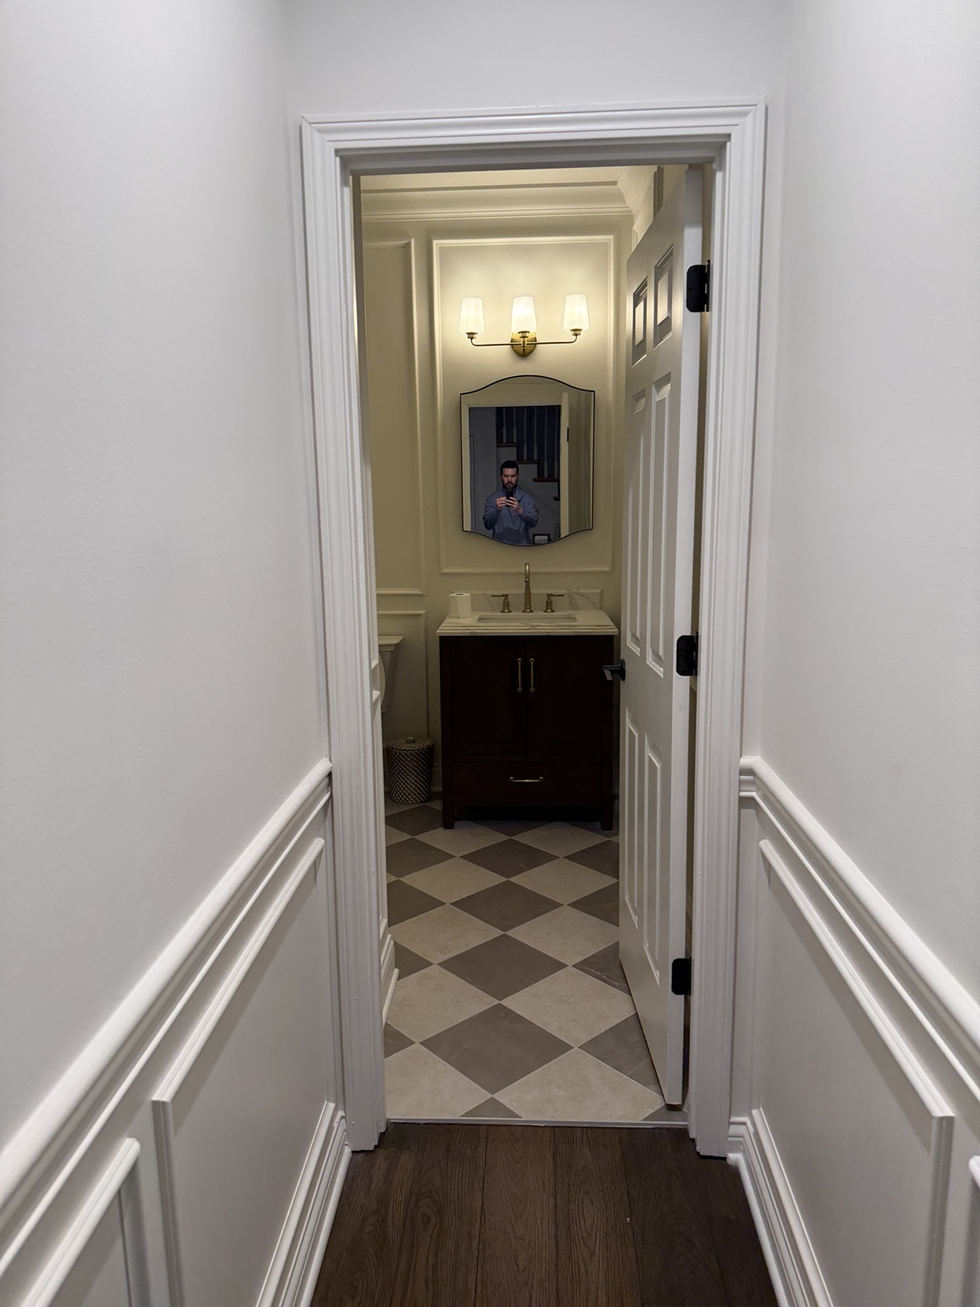
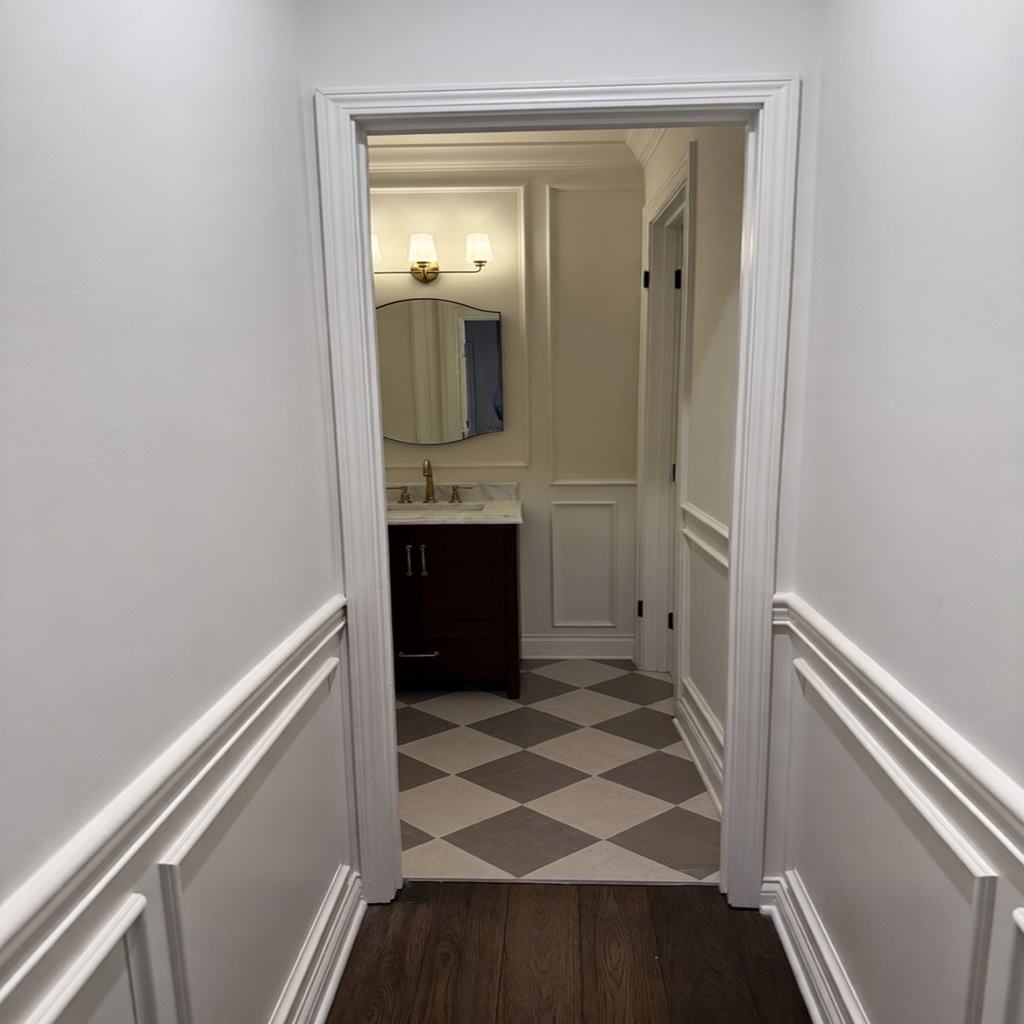
Remove photographer reflections from 3 mirror images

diff --git a/CONSULTING-PLAYBOOK.md b/CONSULTING-PLAYBOOK.md
@@ -1,0 +1,223 @@
+# Independence Carpentry — Growth & Consulting Playbook
+## Prepared by UTXOMacro | November 2026
+
+---
+
+## Part 1: 15 Executable Growth Opportunities for IC
+
+### TIER 1 — Foundation (Week 1-2, Highest ROI)
+
+**1. Google Business Profile — Setup & Optimization**
+- Create and verify Mike's GBP as a service-area business (hide address, list counties served)
+- Add all 6 service categories, business hours, phone, website link
+- Upload all project photos with keyword-rich descriptions
+- Set up messaging so leads can text directly from Google
+- **Why it matters:** GBP drives ~70% of local service discovery. Mike is invisible right now. This alone could generate his first inbound leads within 2 weeks.
+- **Automation potential:** AI agent monitors and responds to GBP questions, updates hours/photos on schedule
+
+**2. Google Reviews Engine**
+- Build an automated post-project review request flow: Mike finishes a job → system texts the homeowner a direct Google review link 3 days later, follows up at 7 days if no review
+- Seed with 3-5 initial reviews (Lance, any past clients Mike can reach)
+- **Why it matters:** Businesses with 10+ reviews at 4.5+ stars rank dramatically higher in local search. Zero reviews = zero trust signal.
+- **Automation potential:** Fully automated via SMS drip. Mike just marks a job "complete" and the system handles the rest.
+
+**3. Local Directory Citations (NAP Consistency)**
+- Submit Independence Carpentry to the top 15 local directories: Yelp, Angi, HomeAdvisor, Houzz, Thumbtack, BBB, Nextdoor, Manta, Yellow Pages, ChamberOfCommerce.com, Foursquare, Apple Maps, Bing Places, MapQuest, Facebook
+- Ensure Name, Address, Phone (NAP) is identical everywhere
+- **Why it matters:** Consistent citations across directories are a core local SEO ranking factor. Google cross-references these to validate legitimacy.
+- **Automation potential:** AI agent can draft all submissions, monitor for inconsistencies quarterly
+
+**4. Facebook Business Page**
+- Mike mentioned he started one. We professionalize it: branded cover photo, service list, contact info, website link, project photo albums
+- Cross-link GBP ↔ Facebook ↔ Website
+- **Why it matters:** Many homeowners still check Facebook before hiring. It's also a free advertising platform via Marketplace and local groups.
+- **Automation potential:** AI-generated posts from project photos. Mike takes a photo → system creates a branded before/after post draft → Mike approves → auto-publishes
+
+---
+
+### TIER 2 — Lead Generation (Week 2-4)
+
+**5. Google Local Services Ads (LSA)**
+- Enroll Mike in Google's LSA program (the "Google Guaranteed" badge)
+- Pay-per-lead model: Mike only pays when someone actually contacts him (~$15-30/lead for home services)
+- Requires background check + license verification
+- **Why it matters:** LSAs appear ABOVE regular Google Ads and organic results. For a carpenter with no web history, this is the fastest path to paid leads.
+- **Automation potential:** AI monitors lead quality, auto-responds to inquiries, flags high-value leads
+
+**6. Automated Lead Response System**
+- When someone submits the website contact form or texts Mike's number: instant auto-reply within 60 seconds acknowledging the inquiry, asking about project type, and confirming Mike will follow up
+- **Why it matters:** 78% of customers hire the first business that responds. Mike is on job sites all day — he can't answer every call. A 60-second auto-response holds the lead until he's available.
+- **Automation potential:** 100% automated. SMS/email auto-responder with AI-personalized messages based on inquiry content.
+
+**7. Nextdoor Business Page**
+- Claim Independence Carpentry on Nextdoor
+- Post project completions to relevant neighborhoods
+- Encourage past clients to recommend on Nextdoor
+- **Why it matters:** Nextdoor is the #1 platform for neighborhood service recommendations. Hyperlocal, high-intent, free organic reach.
+- **Automation potential:** AI drafts neighborhood-appropriate posts from project photos
+
+**8. Referral Program**
+- Simple referral card/system: "Refer a friend, get $50 off your next project" (or similar)
+- Digital version: unique referral link per past client, tracked automatically
+- **Why it matters:** Word of mouth is already how Mike gets work from builders. Formalizing it with an incentive turns passive referrals into active ones.
+- **Automation potential:** AI tracks referrals, sends thank-you messages, applies discounts
+
+---
+
+### TIER 3 — Content & Visibility (Month 2-3)
+
+**9. Project Portfolio System (Mike's #1 Ask)**
+- Build a simple mobile-first flow: Mike takes photos on his Samsung → uploads to a shared folder (Google Drive or Dropbox) → AI processes them into a branded project card → auto-publishes to website gallery + creates social posts
+- **Why it matters:** This was literally Mike's most emphatic request in the transcript. He wants to upload photos and have them appear on the site. This is the stickiest service we can offer — it makes him dependent on the system.
+- **Automation potential:** Near-fully automated. Mike's only job is taking photos.
+
+**10. SEO Content Pages (Multi-Page Expansion)**
+- Add dedicated pages: `/services/crown-molding-installation`, `/services/interior-door-installation`, `/services/custom-built-ins`, etc.
+- Each page targets specific search queries ("crown molding installation Northern Kentucky")
+- Include FAQ sections targeting voice search / AI search queries
+- **Why it matters:** Moves from 1 indexed URL to 6-8, each targeting different customer search intent. This is the difference between ranking for "Independence Carpentry" (branded) and "finish carpenter near me" (commercial intent).
+- **Automation potential:** AI drafts service pages from templates, Mike reviews
+
+**11. Instagram Portfolio**
+- Visual-first platform perfect for carpentry (before/after Reels, project photo carousels)
+- Same photo pipeline as #9 — Mike takes photos, system creates Instagram-optimized content
+- **Why it matters:** Homeowners (especially younger ones remodeling) browse Instagram for design inspiration. Finish carpentry is inherently visual.
+- **Automation potential:** AI creates carousels and Reels scripts from project photos + descriptions
+
+**12. AI-Optimized Web Presence (llms.txt, Schema, AEO)**
+- Already have Schema.org structured data. Add: FAQ schema for common questions, llms.txt for AI crawlers, Answer Engine Optimization (AEO) content
+- Target AI search queries: "best finish carpenter in Northern Kentucky", "how much does crown molding installation cost"
+- **Why it matters:** Mike asked about showing up in ChatGPT/AI searches in the transcript. This directly addresses it. AI search is growing 40%+ YoY.
+- **Automation potential:** AI monitors rankings in both Google and AI search, adjusts content
+
+---
+
+### TIER 4 — Operational Efficiency (Month 2-4)
+
+**13. Simple CRM & Lead Tracking**
+- Give Mike a dead-simple system: leads come in → he sees them on his phone → marks them as "contacted", "quoted", "won", "lost"
+- Dashboard shows: leads this month, conversion rate, average project value, pipeline
+- **Why it matters:** Mike currently has zero visibility into his lead flow. This turns gut feeling into data. When builder work dries up (his exact words), he can see exactly how many residential leads are in the pipeline.
+- **Automation potential:** AI-powered CRM that auto-logs calls, texts, and form submissions. Mike just updates status.
+
+**14. Automated Estimate Follow-Up**
+- Mike gives an estimate → system sends a professional follow-up email/text 2 days later ("Thanks for considering Independence Carpentry for your [project type]. Any questions about the estimate?")
+- If no response: gentle follow-up at 7 days
+- **Why it matters:** Most contractors never follow up on estimates. The ones who do close at 2-3x the rate. This is free money.
+- **Automation potential:** Fully automated drip sequence triggered by Mike marking "estimate sent" in the CRM
+
+**15. Seasonal/Targeted Ad Campaigns**
+- Run Facebook/Instagram ads to homeowners within 25 miles during peak renovation seasons (spring, early fall)
+- Budget: $200-400/month during peak, $0 off-peak
+- Targeting: homeowners, recently purchased homes, home improvement interests, age 30-65
+- Ad creative: before/after photos (which Mike will be generating through the portfolio system)
+- **Why it matters:** Targeted ads + compelling before/after photos + a professional website + Google reviews = a lead machine. Each piece reinforces the others.
+- **Automation potential:** AI generates ad creative from portfolio photos, optimizes targeting, manages budget
+
+---
+
+## Part 2: The Pitch — "Digital Growth Partner"
+
+### The Problem (Mike's Own Words)
+> "Right now we do a lot of work for builders, and sometimes that work gets dry. It'll be a month before I'm on my next job."
+> "I need to be able to log into it and upload pictures."
+> "I really think the internet could open up a lot of doors for us."
+
+Mike knows he needs digital presence. He doesn't have the time, knowledge, or bandwidth to build it himself. He tried hiring his daughter for social media — it didn't work. His accountant told him websites cost monthly maintenance. He's already mentally prepared to pay for this.
+
+### The Offer: Three Tiers
+
+#### 🔨 FOUNDATION — $250/month
+*"Get found. Get calls."*
+- Professional website (hosted, maintained, updated)
+- Google Business Profile setup + ongoing optimization
+- Automated review requests after every project
+- Local directory submissions (15 platforms)
+- Monthly performance report (leads, calls, website visits)
+- **What Mike gets:** He goes from invisible to showing up when people search "finish carpenter near me"
+
+#### 🏗 GROWTH — $500/month
+*"Fill the pipeline. Never wait for work."*
+- Everything in Foundation, plus:
+- Automated lead response system (60-second reply)
+- Facebook + Instagram business pages, managed
+- Monthly social posts from project photos (AI-generated, Mike-approved)
+- Project portfolio system (Mike uploads photos → auto-publishes everywhere)
+- SEO content pages (service-specific landing pages)
+- Estimate follow-up automation
+- Simple CRM dashboard on his phone
+- **What Mike gets:** A digital employee who handles his entire online presence while he focuses on building
+
+#### 🏠 SCALE — $1,000/month
+*"Grow beyond word of mouth."*
+- Everything in Growth, plus:
+- Google Local Services Ads management (ad spend separate)
+- Facebook/Instagram ad campaigns (ad spend separate, $200-400/mo recommended)
+- AI-optimized content for Google + AI search
+- Nextdoor management
+- Referral program system
+- Quarterly business review with growth recommendations
+- **What Mike gets:** A full digital marketing department for less than a part-time hire
+
+### The Close
+> "Mike, you said the internet could open a lot of doors. Here's what we've already built — a professional website with your real work that you can send to any potential client right now. What we're offering is to keep building on that foundation: get you on Google, get reviews flowing, make sure every lead gets a fast response even when you're on a job site, and turn your project photos into marketing that works 24/7. You focus on the craft. We handle the digital side. And you can start, pause, or stop anytime."
+
+### Why This Works as a Recurring Relationship
+1. **Mike can't do this himself** — he said so explicitly
+2. **The value compounds** — reviews accumulate, SEO strengthens, portfolio grows
+3. **Stopping hurts** — once leads flow, turning it off means going back to waiting for builder calls
+4. **Low price vs. value** — one residential project ($1,500+) pays for months of service
+5. **Proof is already built** — the website exists, he can see the quality
+
+---
+
+## Part 3: Scalable Playbook for Future Clients
+
+### The Reusable Stack
+Everything built for IC becomes a template for the next client:
+
+| Component | IC-Specific | Reusable Template |
+|---|---|---|
+| Website | independence-carpentry repo | Fork, swap content/photos/colors |
+| GBP setup | Mike's listing | Checklist + submission templates |
+| Review automation | IC's SMS flow | Plug in any business phone + name |
+| Social posting | IC's brand assets | AI prompt templates per industry |
+| Lead response | IC's auto-replies | Industry-specific response templates |
+| CRM | IC's dashboard | White-label for any service business |
+| Portfolio system | Carpentry photos | Works for any visual trade |
+| Ad campaigns | NKY targeting | Swap geo + audience per client |
+
+### Target Client Profile
+- **Trade professionals:** Carpenters, electricians, plumbers, painters, landscapers, HVAC
+- **Characteristics:** Excellent at their craft, zero digital presence, 1-10 employees, $100K-$1M revenue
+- **Pain point:** "Builder work gets dry" / "People don't know we exist" / "I don't have time for this"
+- **Willingness to pay:** $250-1,000/month (already validated by Mike's accountant conversation)
+- **Acquisition:** One great result → referral to their trade network. Mike knows other contractors.
+
+### The "Digital Employee" Positioning
+Don't sell "marketing services." Sell a **digital employee who never sleeps:**
+
+- **Receptionist:** Answers every inquiry in 60 seconds, 24/7
+- **Marketing coordinator:** Posts project photos, manages social, runs ads
+- **Reputation manager:** Requests and monitors reviews
+- **SEO specialist:** Keeps the website ranking and content fresh
+- **Business analyst:** Reports on leads, conversion, and pipeline
+
+> "For less than a part-time hire, you get a team that handles everything digital — powered by AI, overseen by humans who understand your business."
+
+### Revenue Model
+- 10 clients × $500/month = $60,000/year
+- 20 clients × $500/month = $120,000/year (hits Lance's $100K target)
+- Marginal cost per client decreases as templates + automation mature
+- Ad spend management: 15-20% markup on managed ad budgets = additional revenue
+- One-time setup fees: $500-1,000 per new client (website build, GBP, directories)
+
+### Moat
+- **AI automation** reduces your per-client labor to ~2-4 hours/month at Growth tier
+- **Compounding results** (reviews, SEO, portfolio) create switching costs
+- **Referral network** among trades (Mike → his builder contacts → their subcontractors)
+- **White-label dashboard** becomes the client's daily business tool — sticky
+
+---
+
+*This playbook is both the IC execution plan and the template for UTXOMacro's consulting arm. Every service delivered to IC should be built as a reusable system.*
